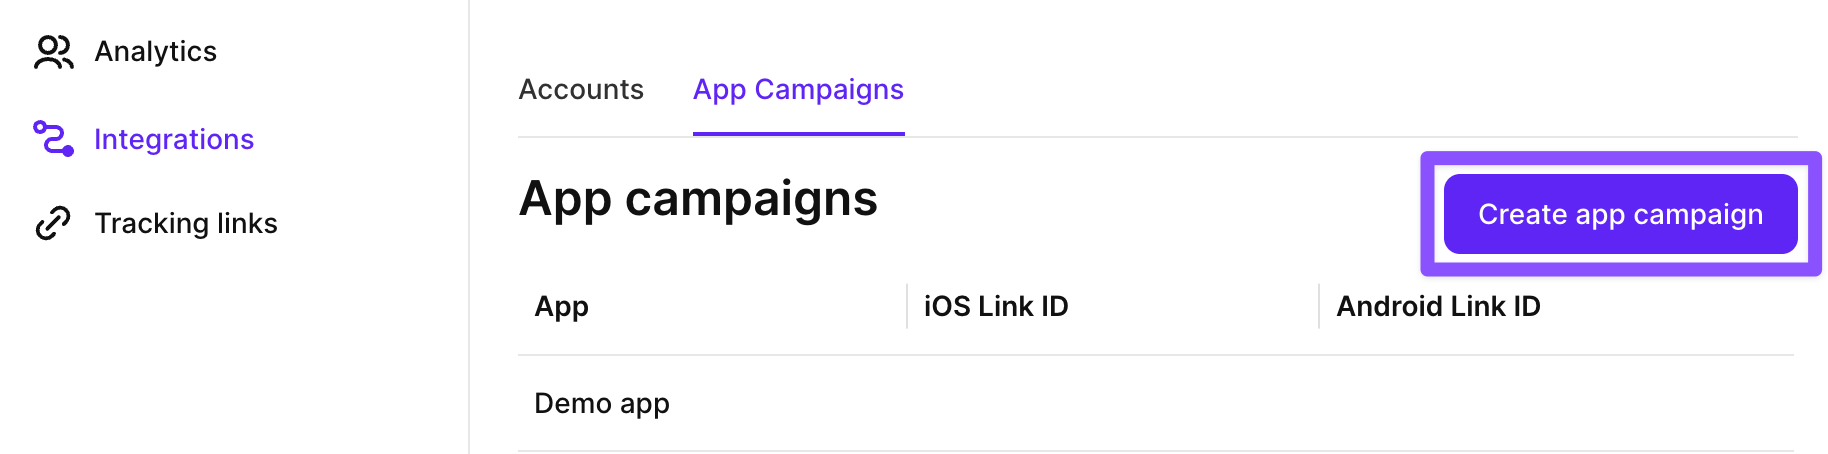
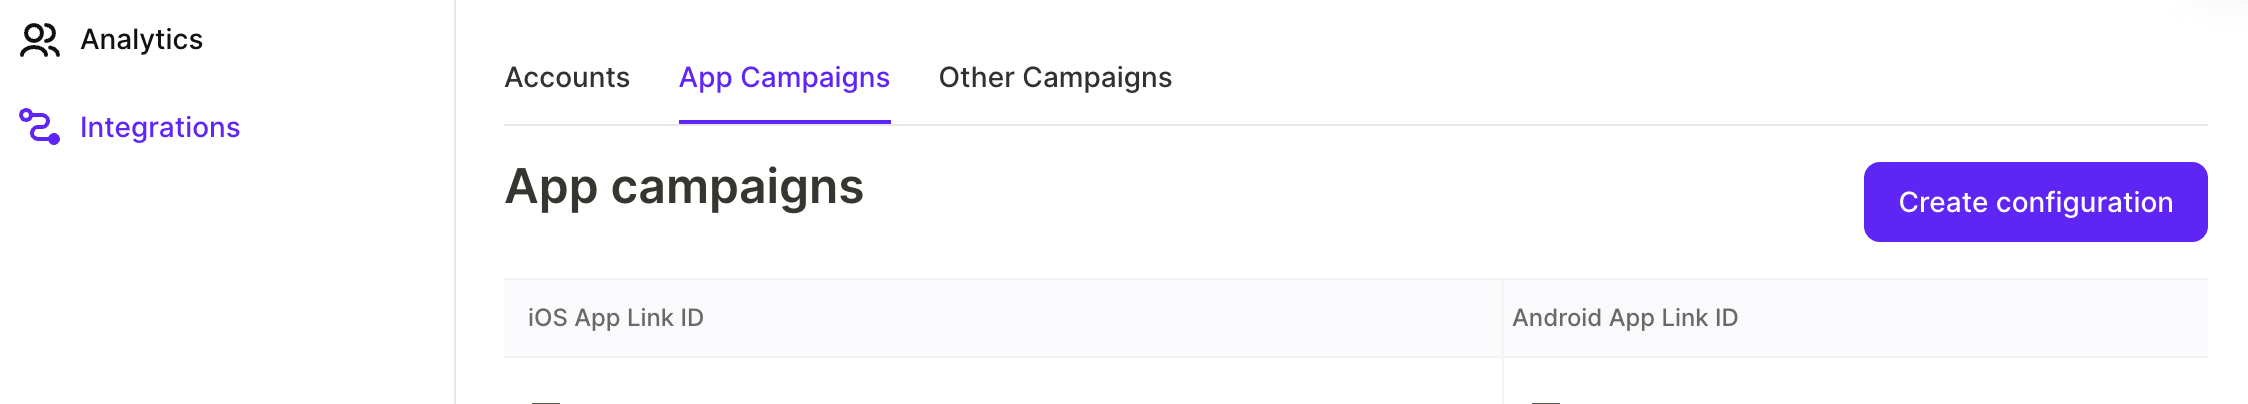
docs(attribution): bring back the Google Ads integration article (#671)
* docs(attribution): bring back the Google Ads integration article

Rewrite ua-google-ads for the current UI: App Campaigns and Other
Campaigns tabs, Sign in with Google, Create configuration, Events
mapping, tracking template and Final URL suffix, Qualified trial.
Add it to the sidebar and list Google Ads alongside Meta and TikTok
in the neighbouring Attribution articles.

* chore(context-mill): attribution brief — Google Ads shipped, two campaign types

* docs(attribution): current Google Ads screenshots, including Other Campaigns

* docs(attribution): Add event and Events mapping labels for Meta and TikTok

diff --git a/.claude/context-mill/zones/attribution.md b/.claude/context-mill/zones/attribution.md
@@ -79,6 +79,22 @@ attribution *integrations* — the ad-platform and cloud-storage connections tha
   this path. Stripe/Paddle cohort = the subscription's first charge date
   (`clickhouse_web_assembly_repository.py`), matching FunnelFox's first-paid-date rule. Test-mode/sandbox
   events are dropped on arrival on every path, so a test key connects, shows Valid, and yields nothing.
+- **Google Ads has two campaign types with different wiring** (2026-09-29, UA service `origin/develop`
+  3dc6f35c + dashboard-interface `origin/master` 69e745ae3). `settings.campaign_type` is `app` or `web`
+  (`campaign_context/applications/constants/partners.py`; unset = web). The UI calls them the **App
+  Campaigns** and **Other Campaigns** tabs (`IntegrationHeaderTabsBar.tsx`). App campaigns report through
+  Google's App Conversion API keyed on per-platform App Link IDs, with a hard-coded **Provider ID**
+  `8222663145` shown on the campaign settings page; Google does the install attribution and returns
+  campaign/ad group/ad/keyword (`google_app_conversion_service.py`). Other (web) campaigns go through
+  the Data Manager API keyed on gclid/gbraid/wbraid to one selected client account; saving creates one
+  `UPLOAD_CLICKS` conversion action per target name, named as typed (`campaign_service.py`,
+  `google_conversion_actions.py`). The user pastes a **Tracking template** (the `/track` link with
+  `{lpurl}`) and, for web funnels, the **Final URL suffix**; auto-tagging must be on. Google configs have
+  no General/Settings tabs, no Additional parameter, no Send all events and no Predicted LTV; Revenue
+  override and Qualified trial exist on both types. Metrics sync is `'15 */4 * * *'` with a 3-day
+  lookback (`sync_google_metrics.py`, changed from 2-hourly on 2026-05-01); country breakdown is exact
+  for campaign/ad group, proportional for ad, absent for keyword. The Data Manager OAuth scope was added
+  for every company on 2026-09-10 (commit ea892017); tokens granted earlier must reconnect.
 - **Some claims are the ad network's and cannot be verified here.** Meta token expiration and the
   `ads_read` permission, system-user token generation, whether Meta approves an ad URL, TikTok's
   Tracking URL field, and the meaning of Apple's ASA fields all live in the provider's product. Give
@@ -101,11 +117,14 @@ attribution *integrations* — the ad-platform and cloud-storage connections tha
   billing, account structure. Two things must survive every edit to those guides, because they are the
   only load-bearing steps: where the click link goes, and the rule that splits it across **Website URL**
   and **URL parameters** so the ad gets approved.
-- **A bounded context in the backend is not a documented integration.** The UA service also carries a
-  Google Ads context (metrics queries plus conversion upload) and Adjust and AppsFlyer ingest contexts,
-  while the articles say native spend integrations are Meta and TikTok only. Do not add an integration
-  article, and do not widen "currently — Meta Ads and TikTok for Business", on the strength of that code
-  existing; confirm shipped status with product first. This is the zone's most tempting wrong edit.
+- **A bounded context in the backend is not a documented integration — until the UI ships it.** The UA
+  service also carries Adjust and AppsFlyer ingest contexts; do not add an integration article for those
+  on the strength of the code existing — confirm shipped status with product first. **Google Ads shipped
+  (corrected 2026-09-29):** dashboard-interface commit 4c360ccbe (2026-09-28, "open the Google Ads
+  integration to every company") removed `IS_UA_GOOGLE_ADS_INTEGRATION_ENABLED`, and `ua-google-ads`
+  went back into `tutorial.json` the same week. So native spend integrations are now Meta, TikTok and
+  Google Ads. The feature-flag removal is the kind of evidence that settles "shipped"; the backend
+  context existing was not.
 - **Boundary with `ads-manager`, stated as what gets written.** All Apple Search Ads *campaign
   management* writing — connection flow, bids, automations, keyword work — belongs to `ads-manager`. Here
   ASA appears only as a channel value and as the `asa_*` columns in the export, and this zone never
@@ -130,6 +149,7 @@ attribution *integrations* — the ad-platform and cloud-storage connections tha
 | ua-deferred-data | — | marketer, analyst | 0 | tutorial |
 | ua-facebook | — | marketer, analyst | 10 | tutorial |
 | ua-funnelfox | — | marketer, analyst | 6 | tutorial |
+| ua-google-ads | — | marketer, analyst | 8 | tutorial |
 | ua-google-cloud-storage | — | marketer, analyst | 5 | tutorial |
 | ua-integrations | entry | marketer, analyst | 4 | tutorial |
 | ua-metrics | — | marketer, analyst | 2 | tutorial |
@@ -186,7 +206,7 @@ A ticket asking "how do I turn it on" wants `user-acquisition`, not the one whos
 | "S3 export" with no other context | Decide direction and product first. The three `ua-*` storage articles export *Adapty Attribution's install events*; `s3-exports` / `google-cloud-storage` in **integrations** export the main dashboard's *subscription events*. Same provider, different product, different table — and the wrong one is a plausible-looking wrong answer. |
 | "read which ad drove this install from app code", "personalize onboarding by campaign", "organic vs paid inside the app" | `ua-attribution-data`. Fields arrive in a nested `attribution` object inside the `payload` of `onInstallationDetailsSuccess`, and `payload` is escaped JSON the app parses itself. Every field is optional. Note the article says two things about organic installs — that `channel` can be `organic`, *and* that the `attribution` object is absent when attribution could not be determined — so app code has to handle both shapes. |
 | "deep link the user to a screen after install", "show a welcome screen based on which ad was clicked" | `ua-deferred-data`, not `ua-attribution-data`, even though it is the same callback. The difference is who authored the values: deferred data is parameters *you* appended to the click link yourself (`ios_deferred_data`, `android_deferred_data`, `deferred_data_sub[1-10]`), so the setup step is in the ad's destination URL, not anywhere in the Adapty UI — and they sit at the top level of `payload`, not inside `attribution`. |
-| "no ad spend for this channel", "ROAS/CPI is empty", "why is my Google Ads campaign missing cost" | `user-acquisition`. Only Meta (`ua-facebook`) and TikTok (`ua-tiktok`) have native integrations that pull spend; every other network is tracking-links-only, so every metric with Spend in its formula is structurally unavailable there. This is also what decides link type: native links fill campaign/adset/ad dynamically and can be reused across ads, manual links (`ua-tracking-links`) need every parameter typed at creation. |
+| "no ad spend for this channel", "ROAS/CPI is empty", "why is my Google Ads campaign missing cost" | `user-acquisition`. Only Meta (`ua-facebook`), TikTok (`ua-tiktok`) and — since 2026-09-28 — Google Ads (`ua-google-ads`) have native integrations that pull spend; for Google, missing cost is usually an ad-account token that went INVALID or a manager account (skipped for metrics). Every other network is tracking-links-only, so every metric with Spend in its formula is structurally unavailable there. This is also what decides link type: native links fill campaign/adset/ad dynamically and can be reused across ads, manual links (`ua-tracking-links`) need every parameter typed at creation. |
 | "what do I have to implement", "which SDK version", "we don't use Adapty for purchases", "Attribution doesn't appear in the dashboard", "stop sending events to Attribution" | All `user-acquisition`. No API keys, tokens, or identifiers are passed — just an SDK floor (3.9.1 iOS/Android/Flutter, 3.10.0 RN/Capacitor, 3.12.0 Unity, 3.15.0 KMP) and, if purchases are handled outside Adapty, observer mode. If **Attribution** is missing from the product switcher under the Adapty logo, the documented fix is clearing cookies and site data for adapty.io — check that before debugging anything else. Pausing event delivery is the **Integrations > Adapty** toggle. |
 | "Meta rejected/disapproved the ad because of the URL" | `meta-create-campaign`, repeated in `user-acquisition`. The click link must be split: bare `https://api-ua.adapty.io/api/v1/attribution/click` in **Website URL**, the query string into **URL parameters** under Tracking. Pasting the whole link into Website URL is what gets ads rejected. |
 | "how do I run a Meta/TikTok campaign", "campaign objective", "budget and creative setup" | `meta-create-campaign` / `tiktok-create-campaign` — these are ad-platform-side walkthroughs (objective, ad set, targeting, creative) with almost no Adapty configuration in them. The Adapty-side connection is `ua-facebook` / `ua-tiktok`. Don't answer one from the other. |
@@ -199,4 +219,10 @@ A ticket asking "how do I turn it on" wants `user-acquisition`, not the one whos
 | "show a different paywall to users who came from Apple Search Ads" | Not this zone, despite reading like it. That's **sdk-best-practices** (`ios-show-aa-targeted-paywall` and its platform siblings), where the source value is the string `'apple_search_ads'` and `appliedAttributionSources` is optional. What makes the misfile tempting is that Attribution's own exports do carry `asa_*` columns. |
 
 ## Gaps and misses
+
+- **Revenue override's button is "Add event", not "Add override", on every network** (2026-09-29,
+  dashboard-interface `IntegrationSettingsFormContent.tsx:364,398` — one shared component). `ua-facebook`
+  and `ua-tiktok` still say **Add override**; `ua-google-ads` uses the current label. `ua-tiktok` also
+  still names the section **Events names** where the UI says **Events mapping** — not re-verified for
+  TikTok specifically; checked only the Google form.
 
